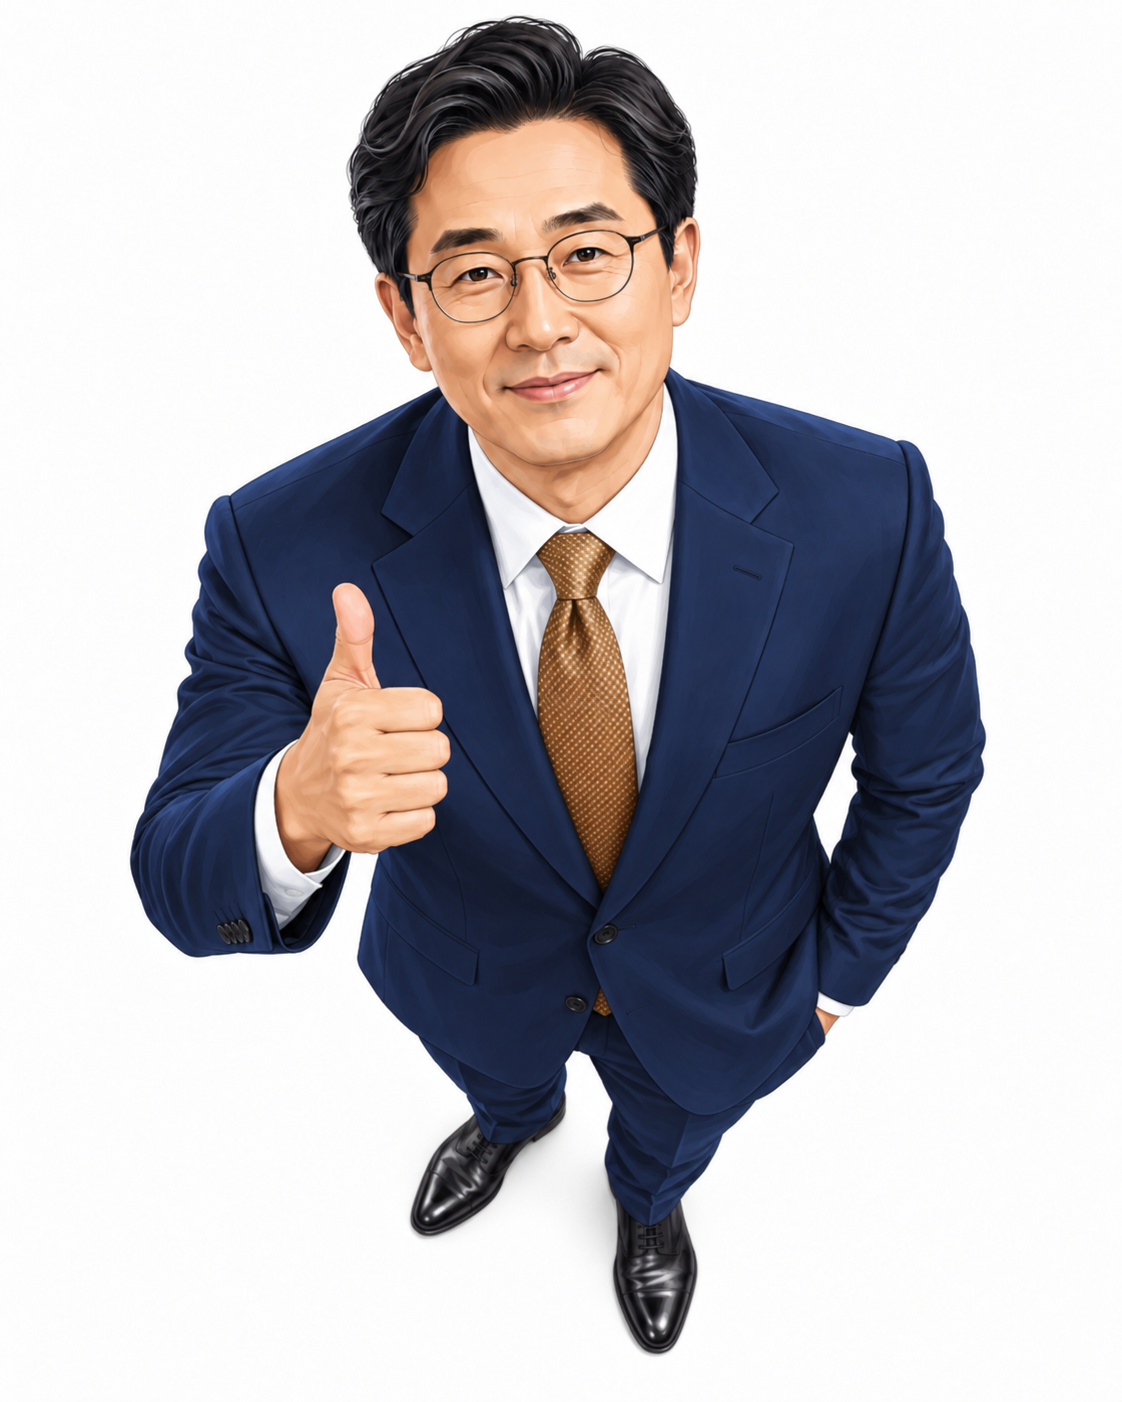
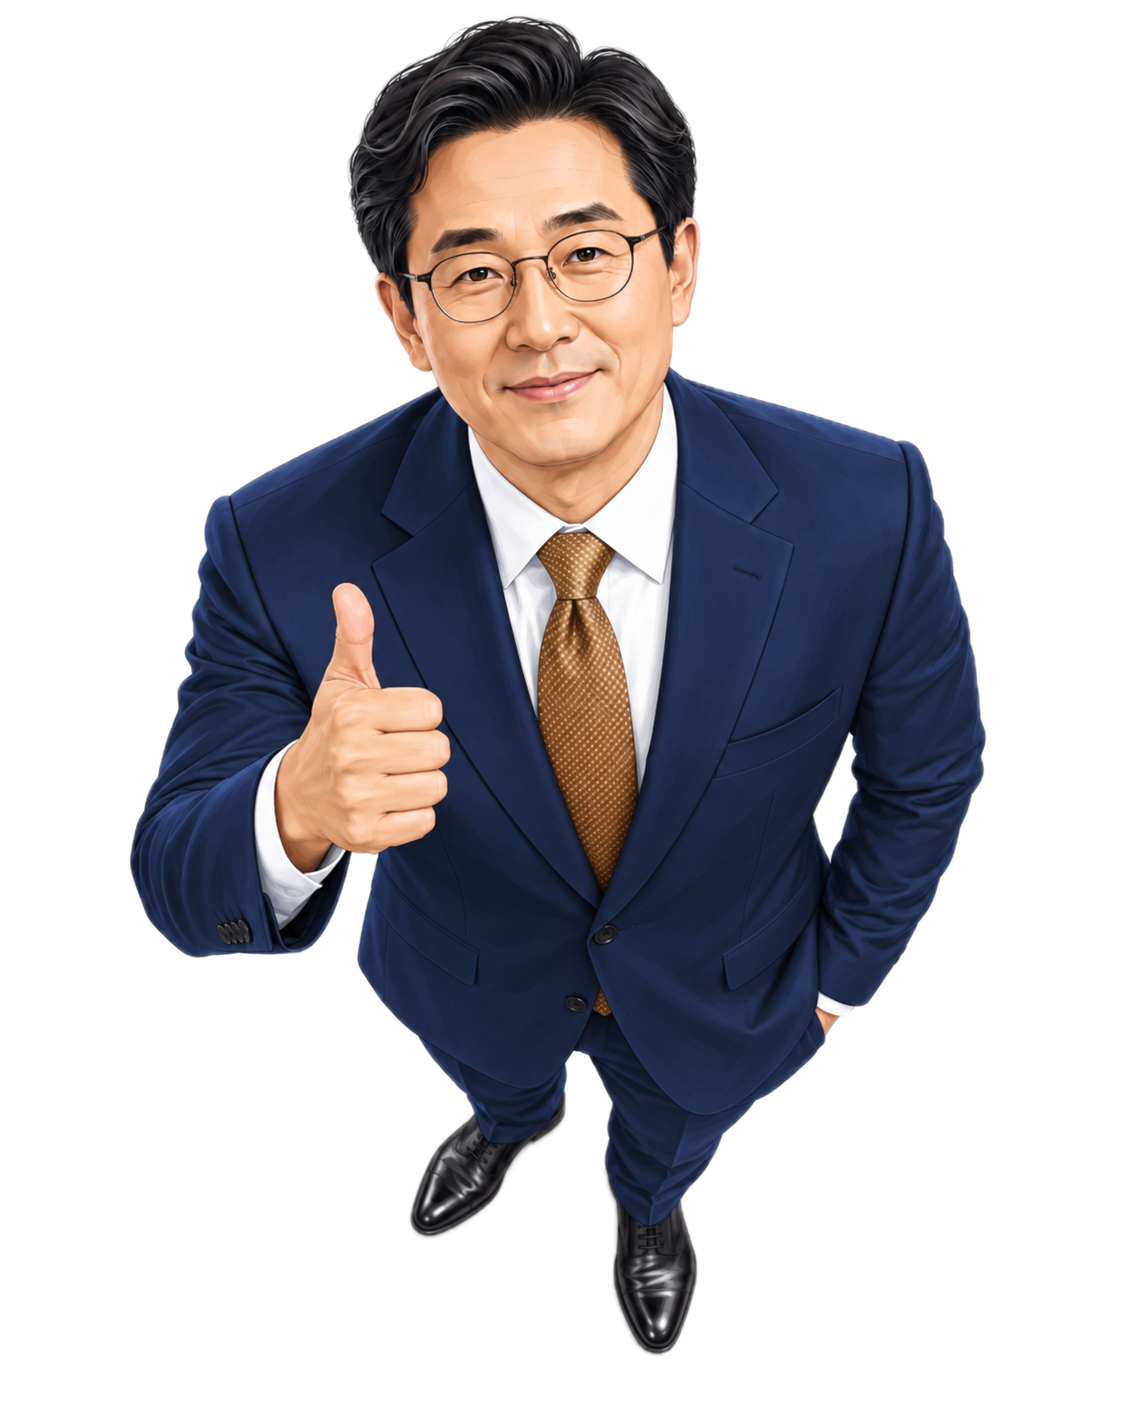
세번째 커밋 - 캐릭터 흰색배경 삭제

diff --git a/css/style.css b/css/style.css
@@ -349,13 +349,13 @@ code i {
 }
 
 .portrait-wrap {
-  background: var(--accent);
+  background: var(--bg);
   border-radius: var(--radius);
   overflow: hidden;
 }
 
 .portrait-wrap {
-  background: #ffffff;
+  background: var(--bg);
 }
 
 .portrait-wrap img {
